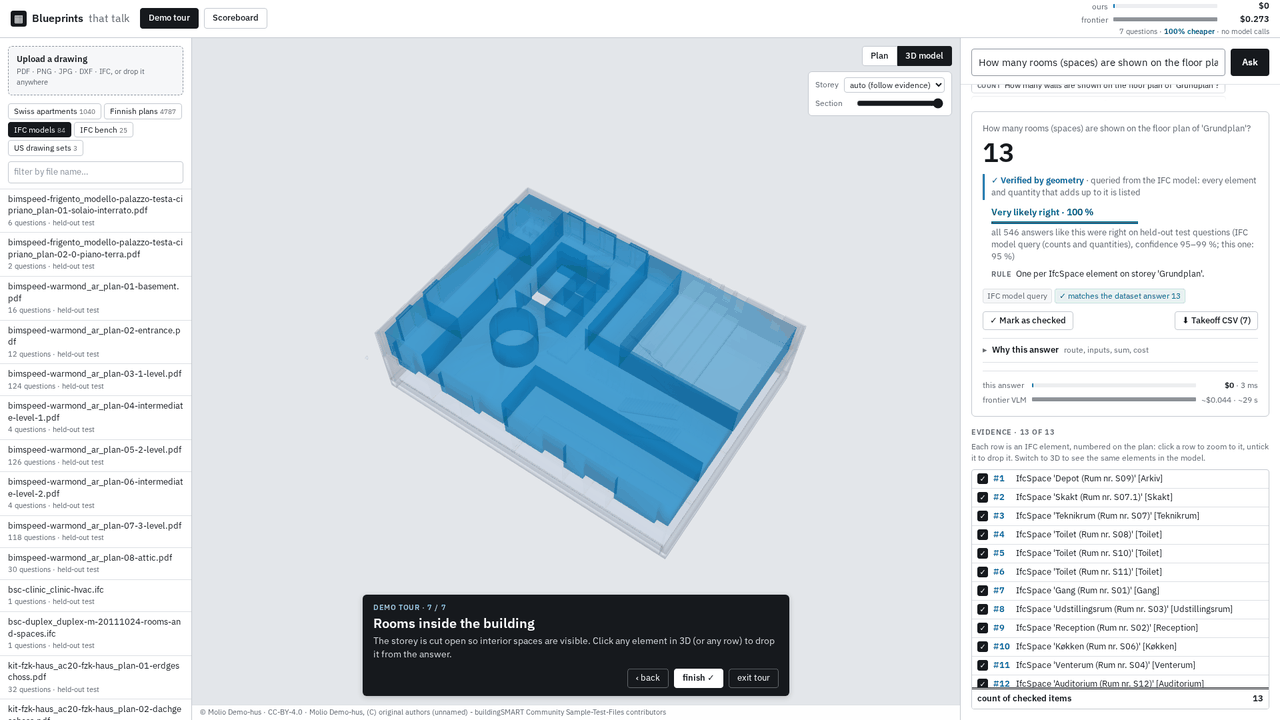
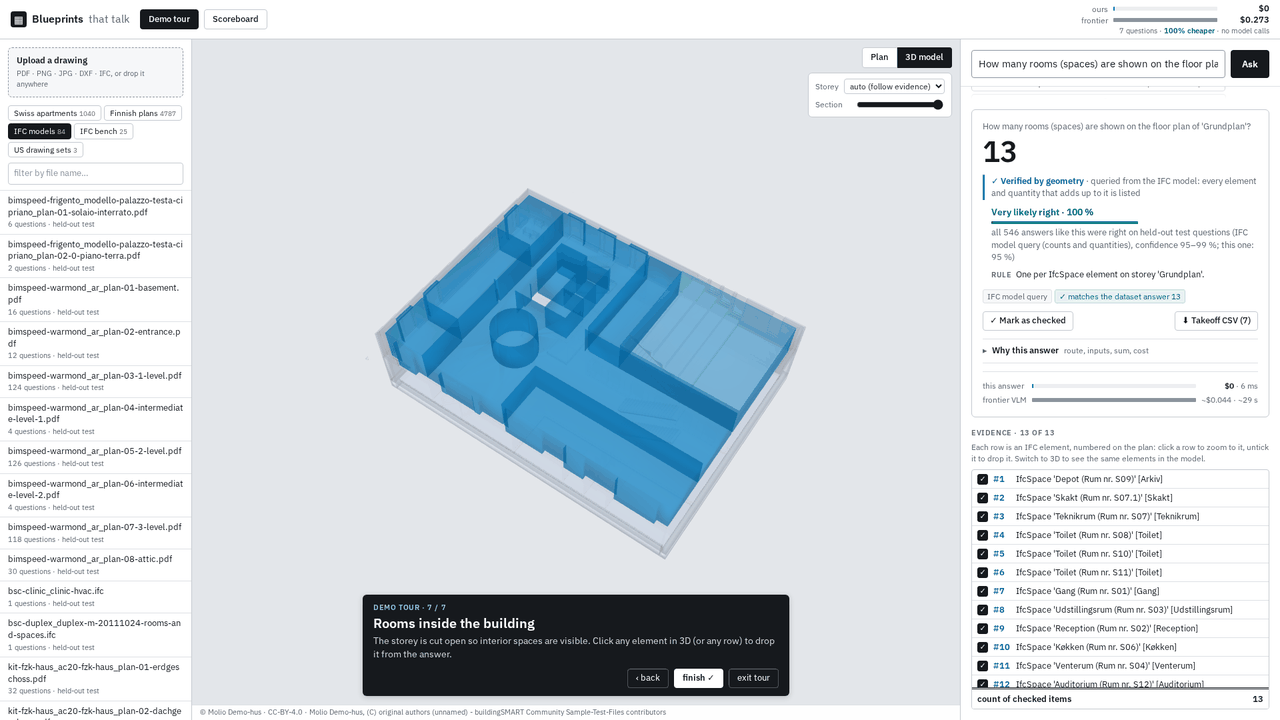
Design: DESIGN.md (principles, audit, sources), before/after screenshots, tour/scoreboard/phone shots re-recorded in the new design; model-read rows numbered in orange

diff --git a/app/static/app.css b/app/static/app.css
@@ -263,6 +263,7 @@ h3 { margin: 0 0 8px; font-size: 11px; text-transform: uppercase; letter-spacing
 .ev .n { min-width: 26px; color: var(--ev-ink); font-weight: 600; }
 .ev div.off .n { color: var(--faint); }
 .ev div.added .n { color: var(--ok-ink); }
+.ev div:has(.rd) .n { color: var(--chk-ink); }  /* model-read rows: numbered in the same orange as their dashed marks */
 .ev .tg { width: 16px; height: 16px; padding: 0; border: 1px solid var(--faint); border-radius: 3px; background: var(--panel); color: #fff; font-size: 11px; line-height: 1; cursor: pointer; }
 .ev div:not(.off) .tg { background: var(--ink); border-color: var(--ink); }
 .ev .rd { margin-left: 6px; font-size: 11px; color: var(--chk-ink); border: 1px dashed var(--chk); border-radius: 3px; padding: 0 3px; }

diff --git a/docs/DESIGN.md b/docs/DESIGN.md
@@ -1,0 +1,109 @@
+# Design notes: how the demo should look
+
+Who it is for: quantity surveyors, estimators, site and design engineers. Their tools are Bluebeam Revu,
+Procore Drawings, Autodesk Construction Cloud and PlanSwift- or Togal-style takeoff software. In all of them
+the drawing fills the screen and a measurement list sits beside it. That list is where they check the numbers.
+The demo should feel like one more of those tools, a sober one. It should not look like a chat app.
+
+The tokens live at the top of [`app/static/app.css`](../app/static/app.css). The scoreboard,
+[`app/static/results.html`](../app/static/results.html), uses the same tokens.
+
+## What the reference tools do
+
+- **Bluebeam Revu** keeps every markup in a *Markups List* next to the sheet. Its columns are Label, Length, Area,
+  Volume, Count and Measurement, plus custom formula columns for cost. Clicking a row selects the markup on the
+  page, and the list exports to CSV or PDF with the units in their own columns.
+  [Markups List](https://support.bluebeam.com/online-help/revu20/Content/RevuHelp/Menus/Window/Panels/Markups/Markups-List--MTV.htm),
+  [custom columns for takeoff](https://support.bluebeam.com/user-manual/tutorials/custom-columns-takeoffs.html),
+  [Markup summary](https://support.bluebeam.com/no/user-manual/menus/batch/summary.html)
+- **Togal.AI** runs an AI takeoff, then puts every result both on the drawing and in a *Quantities Panel* beside
+  it. The panel holds a subtotal for each classification and the instances that make it up. Clicking an instance
+  highlights it on the drawing, the totals update live as you deduct or add, and a check icon toggles visibility.
+  [Quantities panel](https://help.togal.ai/en/articles/15601691-togal-s-quantities-panel),
+  [overview](https://help.togal.ai/en/articles/15611909-quantities-panel-overview)
+- **Procore and ACC drawings** show a white sheet on a neutral canvas. Markups are coloured strokes on the line
+  art, and the controls float on the canvas as small, flat toolbars.
+
+Our app does the same thing with one difference: the AI does the takeoff and the person checks it.
+
+## Principles we apply
+
+1. **The drawing is the hero.** It takes the widest column. The sheet is shown as white paper on a mid-grey canvas
+   (`--paper`), so its edge is visible, as in Revu and Procore. The controls on top of it (zoom, Plan/3D, storey)
+   are small, white and hairline-bordered, with no shadows or glow.
+2. **Light theme with neutral chrome.** Drawings are black line art on white, so the UI around them is
+   white and grey too. A dark UI around a white sheet is tiring and gives poor contrast on a projector. The one
+   ink-black surface is the demo-tour caption, because it sits on top of the drawing and has to stand apart from it.
+3. **One accent, and it means "our evidence".** Blue (`--ev`, Okabe-Ito `#0072B2`) is used for the numbered
+   marks, the room outlines, the list numbers, our row in the comparison table, our series in charts and the 3D
+   highlight. Buttons and selected tabs are ink-black rather than blue, so the blue is never mistaken for decoration.
+   The Swiss plans already carry red dash-dot boundaries, and blue marks stay readable against them where red
+   ones did not.
+4. **Status colours are colour-blind safe and never the only cue** ([WCAG 1.4.1](https://www.w3.org/WAI/WCAG22/Understanding/use-of-color.html)).
+   We use [Okabe-Ito](https://jfly.uni-koeln.de/color/) hues, and each one comes with a second cue:
+
+   | meaning | hue | line style | word / glyph |
+   |---|---|---|---|
+   | measured from CAD / IFC geometry | blue `#0072B2` | solid | "Verified by geometry", ✓ |
+   | read by a model, needs a check | orange `#C26A00` | dashed, with the detector score boxed | "Detected by vision", score % |
+   | added by you | bluish green `#009E73` | solid | "added by you" |
+   | dropped by you | grey | dotted, struck through in the list | unticked box |
+   | conflict / wrong | vermillion `#D55E00` | double rule | "⚠ Conflict", ✗ |
+   | second, independent method | reddish purple `#CC79A7` | dotted | "show its marks" |
+   | the item you point at | highlighter yellow `#F0E442` | thick ink outline | (hover) |
+5. **Contrast.** Body text is 17.6:1 on white and secondary text (`--mut`) is 6.0:1. Every status colour has an
+   `*-ink` tone that passes 4.5:1 when used as text ([WCAG 1.4.3](https://www.w3.org/WAI/WCAG22/Understanding/contrast-minimum.html)).
+   Strokes and control borders are at least 3:1 ([WCAG 1.4.11](https://www.w3.org/WAI/WCAG22/Understanding/non-text-contrast.html)),
+   which matters on a washed-out projector.
+6. **Quantities use tabular, lining figures, right-aligned, with the unit attached.** This is how
+   [Carbon's data table](https://carbondesignsystem.com/components/data-table/usage/) and
+   [Matthew Ström's table guide](https://matthewstrom.com/writing/tables/) say to do it. The body sets
+   `font-feature-settings: "tnum"`, so every number lines up. The value column is right-aligned and every value
+   carries its unit ("17.10 m²").
+7. **The answer can be read in two seconds.** It goes in this order: the question in small text, the quantity in
+   large type (44 px) with its unit, one line on how it was found, then one plain-language confidence line
+   ("Very likely right · 99.95 %") with the track record under it, then the counting rule. The less important
+   parts come after that: sign-off, "why this answer", frontier comparison and cost. The order is set in CSS with
+   `order:`, so it holds whatever order the markup arrives in.
+8. **The evidence list is a takeoff sheet.** It has a tick box, a running number that matches the badge on the
+   drawing, the item and a right-aligned quantity. The total sits under a double rule, as on a bill of quantities.
+   Rows are 28 px tall (36 px on touch). Hovering a row highlights its mark and the reverse, as in Revu and Togal.
+9. **Words over badges.** Confidence is a sentence with its sample size behind it. We do not show a coloured
+   "92 %" chip, and the copy avoids vague AI wording.
+10. **A restrained type system.** We use [IBM Plex Sans](https://www.ibm.com/plex/), an engineering grotesque with
+    tabular figures, and Plex Mono for formulas and codes. The scale is 11 / 12 / 13 / 14 / 16 / 20 / 28 / 44 px.
+    Small labels are uppercase 11 px with letter spacing, and the weights are 400 / 500 / 600.
+11. **Flat surfaces.** There are no gradients, glow, glassmorphism, emoji or sparkle icons. Shadows appear only on
+    things that float over the drawing. There are two radii: 4 px for controls and 6 px for panels.
+12. **Spacing on a 4 px grid** (4 / 8 / 12 / 16 / 24 / 32). Panels are separated by hairlines rather than
+    nested cards ([Atlassian: spacing](https://atlassian.design/foundations/spacing)).
+13. **Phone layout.** The drawing comes first at half the screen height, then the question and the answer, with
+    the drawing list in a drawer. Text inputs use 16 px so iOS does not zoom. Touch rows are at least 36 px tall.
+14. **Respect reduced motion.** Under `prefers-reduced-motion`, the CSS animations and transitions are skipped.
+
+## Before and after
+
+| | before | after |
+|---|---|---|
+| counting doors, 1440 × 900 | ![](img/design-before-1440-count.png) | ![](img/design-after-1440-count.png) |
+| room areas + frontier table, 1920 × 1080 | ![](img/design-before-1920-area.png) | ![](img/design-after-1920-area.png) |
+| model-read evidence + trace, 1920 × 1080 | ![](img/design-before-1920-cubicasa.png) | ![](img/design-after-1920-cubicasa.png) |
+| demo tour caption | ![](img/design-before-1440-tour.png) | ![](img/design-after-1440-tour.png) |
+| phone, 390 × 844 | ![](img/design-before-390-count.png) | ![](img/design-after-390-count.png) |
+| scoreboard | ![](img/design-before-1440-results.png) | ![](img/design-after-1440-results.png) |
+
+### Audit of the old design
+
+- **Generic "AI tool" look.** It used a dark navy UI around a white drawing, a bright-blue pill CTA, a gradient
+  intro card, a ✦ sparkle for LLM answers and rounded 14 px cards inside cards.
+- **Low contrast.** Muted grey-blue text (`#8d9bb0` on `#111a28`) and 11 px grey footnotes were hard to read on a
+  projector.
+- **Clashing colours.** The pink-red evidence boxes collided with the red dash-dot apartment boundaries already
+  printed on the Swiss plans. Pink was also the 3D highlight, while the polygons were blue. Green, blue, purple
+  and amber "how" boxes each brought their own tinted background.
+- **Inconsistent shapes.** There were 7 different radii (4 to 18 px), pills next to square buttons and an emoji
+  arrow on the upload box.
+- **Big number.** It was 52 px weight 800, competing with the drawing, and the unit floated apart from it.
+- **Hard-to-scan list.** The evidence list had no right-aligned quantity column and no clear total rule.
+- **Scoreboard bug.** Its "Ours" column was empty, because the run was renamed `router_full_test_v4`. It now
+  picks the newest `router_full_test*` run, and Sonnet + files and Gemini were added.
